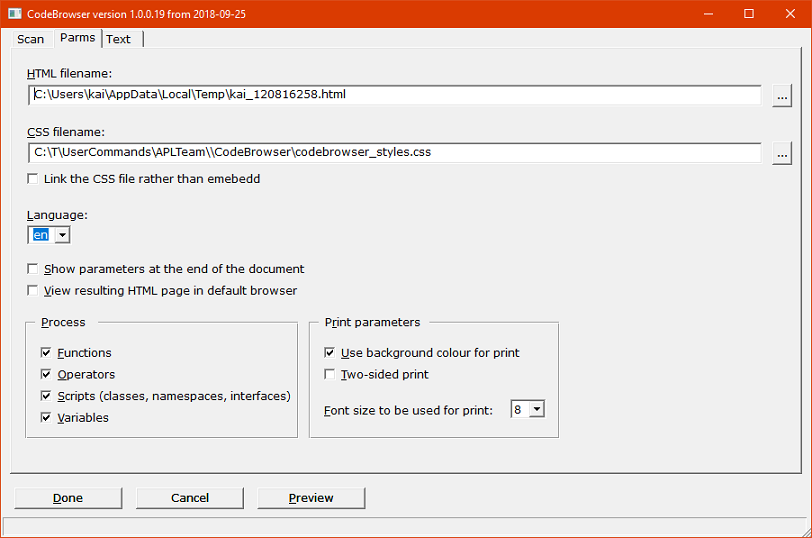
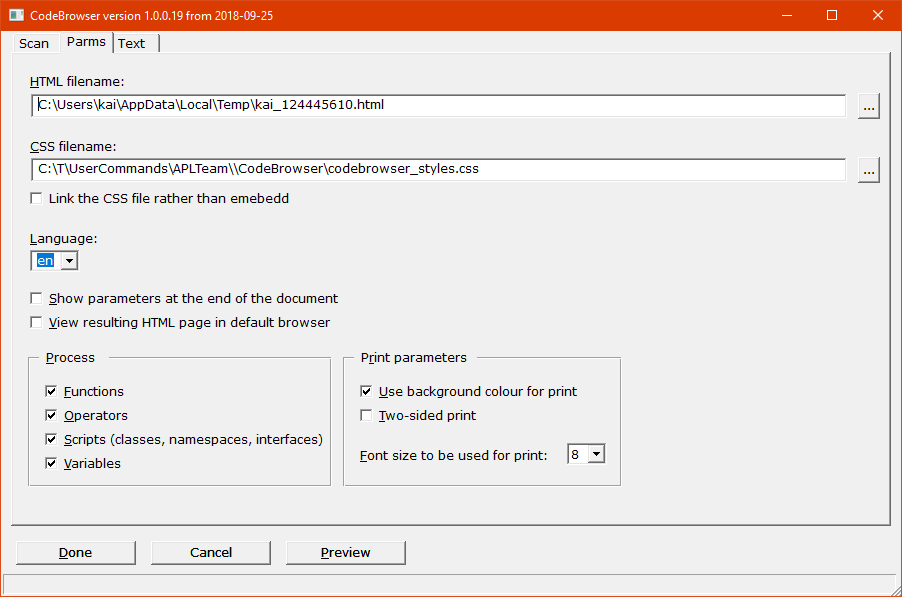
Imagae size again

diff --git a/README.md b/README.md
@@ -47,10 +47,10 @@ Although many (though not all) parameters can be specified as flags and options 
 
 This lets the user command show a GUI that allows the user to comfortably define all parameters she wants to amend:
 
-![](images/gui_1.png "First tab of CodeBrowser's GUI"{height="767" width="508")
+![](images/gui_1.png "First tab of CodeBrowser's GUI")
 
-![](images/gui_2.png "Second tab of CodeBrowser's GUI"){height="812" width="538")
+![](images/gui_2.png "Second tab of CodeBrowser's GUI")
 
-![](images/gui_3.png "Third tab of CodeBrowser's GUI"){height="812" width="538")
+![](images/gui_3.png "Third tab of CodeBrowser's GUI")
 
 
